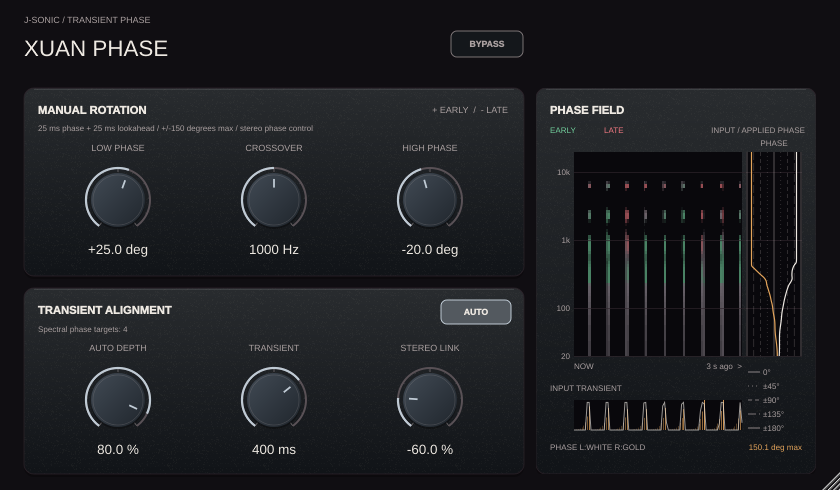
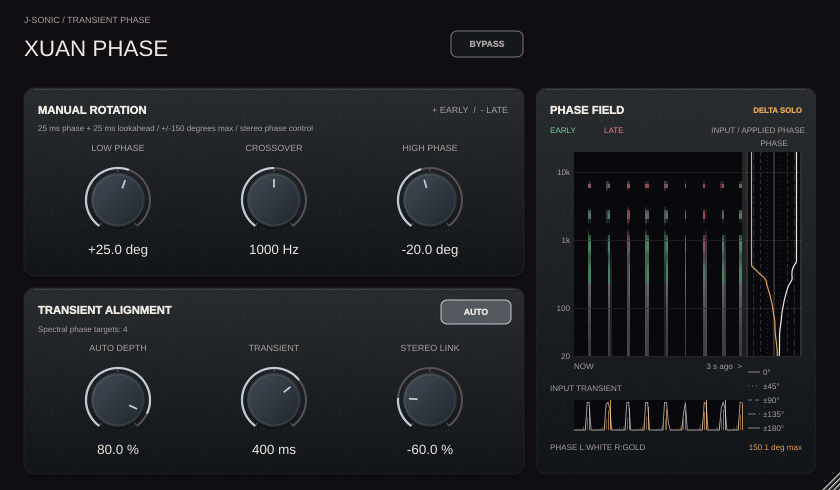
Add click-to-audition phase delta to Xuan Phase

diff --git a/projects/XuanPhase/Tests/ProcessorTests.cpp b/projects/XuanPhase/Tests/ProcessorTests.cpp
@@ -479,17 +479,39 @@ void phaseDisplayTests()
         check (! seams.next(), "phase wrap crossings split the path instead of drawing across the display");
     }
 }
+void deltaSoloTests()
+{
+    std::vector<float> input (8192, 0.f);
+    input[0] = .8f;
+    for (size_t i = 512; i < 2048; ++i)
+        input[i] += .2f*std::sin (juce::MathConstants<double>::twoPi*700*i/48000);
+    xuan::Settings neutral, rotated, delta;
+    rotated.low = 90; rotated.high = -45;
+    delta = rotated; delta.deltaSolo = true;
+    const auto dry = run (neutral, input);
+    const auto wet = run (rotated, input);
+    const auto audition = run (delta, input);
+    double maximumError = 0, deltaEnergy = 0;
+    for (size_t i = 0; i < input.size(); ++i)
+    {
+        maximumError = std::max (maximumError, std::abs (double (audition[i])-(double (wet[i])-dry[i])));
+        deltaEnergy += double (audition[i])*audition[i];
+    }
+    check (maximumError < 2e-6 && deltaEnergy > .01,
+           "Delta Solo auditions processed minus latency-aligned dry audio on the same phase path");
+}
 void dspTests (const juce::File& directory)
 {
     directory.createDirectory();
+    deltaSoloTests();
     phaseDisplayTests();
     phaseCapTests (directory);
     XuanPhaseProcessor saved, restored;
     set (saved, "link", -70);
-    set (saved, "depth", -75); set (saved, "transient", 700);
+    set (saved, "depth", -75); set (saved, "transient", 700); set (saved, "deltaSolo", 1);
     juce::MemoryBlock state; saved.getStateInformation (state); restored.setStateInformation (state.getData(), static_cast<int> (state.getSize()));
-    check (std::abs (restored.settings().depth+75) < .001f && std::abs (restored.settings().transient-700) < .001f && std::abs (restored.settings().link+70) < .001f,
-           "negative Depth and Transient release survive session recall");
+    check (std::abs (restored.settings().depth+75) < .001f && std::abs (restored.settings().transient-700) < .001f && std::abs (restored.settings().link+70) < .001f
+           && restored.settings().deltaSolo, "negative Depth, Transient release, and Delta Solo survive session recall");
     set (saved, "depth", 50);
     auto oldOutput = saved.parameters.copyState();
     for (int i = oldOutput.getNumChildren()-1; i >= 0; --i)
@@ -501,11 +523,11 @@ void dspTests (const juce::File& directory)
            "older Output states migrate to shared Stereo Link without treating gain as a link value");
     auto oldState = saved.parameters.copyState();
     for (int i = oldState.getNumChildren()-1; i >= 0; --i)
-        if (oldState.getChild (i).getProperty ("id").toString() == "transient") oldState.removeChild (i, nullptr);
+        if (const auto id = oldState.getChild (i).getProperty ("id").toString(); id == "transient" || id == "deltaSolo") oldState.removeChild (i, nullptr);
     XuanPhaseProcessor legacy;
     legacy.parameters.replaceState (oldState);
-    check (std::abs (legacy.settings().depth-50) < .001f && std::abs (legacy.settings().transient-200) < .001f,
-           "sessions predating Transient retain their stored positive Depth and the new default release");
+    check (std::abs (legacy.settings().depth-50) < .001f && std::abs (legacy.settings().transient-200) < .001f
+           && ! legacy.settings().deltaSolo, "older sessions retain Depth and default to normal audition output");
     std::ofstream phase ((directory.getChildFile ("phase.csv")).getFullPathName().toStdString());
     phase << "setting,frequency,phase_deg,gain_db\n";
     for (double rate : {8000., 44100., 48000., 96000., 192000.})
@@ -762,7 +784,7 @@ void dspTests (const juce::File& directory)
     }
     check (remaining[0] < 1 && remaining[2] > remaining[1]+1,
            "the live worker releases short Transient settings faster than long settings");
-    XuanPhaseProcessor bypassed; set (bypassed, "low", 90); set (bypassed, "link", -100); bypassed.prepareToPlay (48000, 128);
+    XuanPhaseProcessor bypassed; set (bypassed, "low", 90); set (bypassed, "link", -100); set (bypassed, "deltaSolo", 1); bypassed.prepareToPlay (48000, 128);
     double bypassError = 0;
     for (int at = 0; at < 4096; at += 128)
     {
@@ -771,7 +793,7 @@ void dspTests (const juce::File& directory)
         for (int i = 0; i < 128; ++i)
             bypassError = std::max (bypassError, std::abs (static_cast<double> (block.getSample (0, i))-(at+i == 2400 ? 1 : 0)));
     }
-    check (bypassError < 1e-6, "host bypass ignores nonzero rotation and negative Stereo Link while retaining exactly 50 ms latency");
+    check (bypassError < 1e-6, "host bypass ignores rotation, negative Stereo Link, and Delta Solo while retaining exactly 50 ms latency");
 }
 void hostedEditorTests()
 {
@@ -912,6 +934,21 @@ void editor (const juce::File& path)
     set (p, "low", 0);
     check (meter != nullptr && meter->getX() >= 524 && meter->getHeight() > meter->getWidth(), "vertical phase meter sits beside the original controls");
     check (meter->getTooltip().isNotEmpty(), "phase meter has a hover hint explaining colours and scroll direction");
+    const auto clickField = [&] (juce::Point<float> point)
+    {
+        const auto now = juce::Time::getCurrentTime();
+        meter->mouseDown (juce::MouseEvent (
+            juce::Desktop::getInstance().getMainMouseSource(), point,
+            juce::ModifierKeys (juce::ModifierKeys::leftButtonModifier),
+            0.0f, 0.0f, 0.0f, 0.0f, 0.0f, meter, meter,
+            now, point, now, 1, false));
+    };
+    clickField ({100.f, 110.f});
+    check (p.settings().deltaSolo, "clicking the phase field enables the host-automatable Delta Solo parameter");
+    clickField ({230.f, 110.f});
+    check (! p.settings().deltaSolo, "clicking the phase trace again restores the full output");
+    clickField ({12.f, 12.f});
+    check (! p.settings().deltaSolo, "clicking outside the phase view does not toggle Delta Solo");
     const auto green = XuanPhaseMeter::timingColour (-1, 1), red = XuanPhaseMeter::timingColour (1, 1);
     check (green.getGreen() > green.getRed() && red.getRed() > red.getGreen(), "early bands use green and late bands use red");
     p.prepareToPlay (48000, 128); p.setMeterVisible (true);
@@ -957,9 +994,11 @@ void editor (const juce::File& path)
     }
     check (onsetSeen && earlySeen && lateSeen, "live transient spectra contain both early and lagging timing indications");
     check (meter->historySize() > 30 && movedRight, "new spectra enter on the left and existing columns move right");
+    set (p, "deltaSolo", 1);
     auto image = e->createComponentSnapshot (e->getLocalBounds()); juce::MemoryOutputStream png;
     path.getParentDirectory().createDirectory();
     check (juce::PNGImageFormat().writeImageToStream (image, png) && path.replaceWithData (png.getData(), png.getDataSize()), "native phase editor preview is saved");
+    set (p, "deltaSolo", 0);
     set (p, "automatic", 0); bool manualSpectrum = false;
     for (int at = 0; at < 12032; at += 128)
     {
@@ -1017,7 +1056,7 @@ int main (int argc, char** argv)
             const juce::File directory (argv[2]); directory.createDirectory();
             onsetAccuracyTests (directory); std::cout << checks << " onset accuracy checks passed\n"; return 0;
         }
-        stateTests<XuanPhaseProcessor> (8);
+        stateTests<XuanPhaseProcessor> (9);
         dspTests (argc > 2 && juce::String (argv[1]) == "--report" ? juce::File (argv[2]) : juce::File ("/tmp/xuan-report"));
         if (argc > 2 && juce::String (argv[1]) == "--editor") editor (juce::File (argv[2]));
         std::cout << checks << " Xuan Phase checks passed\n"; return 0;

diff --git a/projects/XuanPhase/Source/PhaseMeter.cpp b/projects/XuanPhase/Source/PhaseMeter.cpp
@@ -6,10 +6,25 @@ const auto early = juce::Colour (0xff72ce9c), late = juce::Colour (0xfff07880);
 }
 XuanPhaseMeter::XuanPhaseMeter (XuanPhaseProcessor& p) : processor (p)
 {
-    setTooltip ("Shows three seconds of input transients moving left to right, with early bands green, late bands red, and applied left phase in white and right phase in gold on a plus or minus 180 degree scale with correction targets capped at plus or minus 150 degrees.");
+    setTooltip ("Click the phase field to audition only the phase-rotated difference from the delayed input.");
+    setMouseCursor (juce::MouseCursor::PointingHandCursor);
     lastColumn = lastInput = juce::Time::getMillisecondCounterHiRes();
 }
 XuanPhaseMeter::~XuanPhaseMeter() { stopTimer(); processor.setMeterVisible (false); }
+void XuanPhaseMeter::toggleDeltaSolo()
+{
+    if (auto* parameter = processor.parameters.getParameter ("deltaSolo"))
+    {
+        parameter->beginChangeGesture();
+        parameter->setValueNotifyingHost (parameter->getValue() >= .5f ? 0.f : 1.f);
+        parameter->endChangeGesture();
+        repaint();
+    }
+}
+void XuanPhaseMeter::mouseDown (const juce::MouseEvent& event)
+{
+    if (juce::Rectangle<int> (38, 64, 228, 204).contains (event.getPosition())) toggleDeltaSolo();
+}
 void XuanPhaseMeter::visibilityChanged() { setActive (isShowing()); }
 void XuanPhaseMeter::setActive (bool active)
 {
@@ -132,7 +147,10 @@ void XuanPhaseMeter::paint (juce::Graphics& g)
 {
     drawPanel (g, getLocalBounds().toFloat(), juce::Colour (0xff14171b));
     g.setColour (foreground); g.setFont (juce::FontOptions (13).withStyle ("bold"));
-    g.drawText ("PHASE FIELD", 14, 12, 250, 20, juce::Justification::centredLeft);
+    g.drawText ("PHASE FIELD", 14, 12, 155, 20, juce::Justification::centredLeft);
+    const auto deltaSolo = processor.parameters.getRawParameterValue ("deltaSolo")->load() >= .5f;
+    g.setColour (deltaSolo ? amber : secondary); g.setFont (juce::FontOptions (9).withStyle (deltaSolo ? "bold" : "plain"));
+    g.drawText (deltaSolo ? "DELTA SOLO" : "CLICK FOR DELTA", 162, 14, 104, 17, juce::Justification::centredRight);
     g.setFont (juce::FontOptions (9));
     g.setColour (early); g.drawText ("EARLY", 14, 34, 50, 16, juce::Justification::centredLeft);
     g.setColour (late); g.drawText ("LATE", 68, 34, 50, 16, juce::Justification::centredLeft);

diff --git a/projects/XuanPhase/Source/PhaseEngine.cpp b/projects/XuanPhase/Source/PhaseEngine.cpp
@@ -455,6 +455,7 @@ void PhaseEngine::prepare (double rate, std::function<Settings()> provider, bool
     for (int ch = 0; ch < 2; ++ch) { slots[0].kernels[static_cast<size_t> (ch)].build (ir, partitions); prepareMeter (slots[0], ir, ch); }
     slots[0].state.store (3);
     bypassBlend.reset (rate, .005); bypassBlend.setCurrentAndTargetValue (s.bypass ? 1.f : 0.f);
+    deltaSoloBlend.reset (rate, .005); deltaSoloBlend.setCurrentAndTargetValue (s.deltaSolo ? 1.f : 0.f);
     meterBypass = s.bypass ? 1.f : 0.f; publishRotation();
     if (worker) startThread (juce::Thread::Priority::normal);
 }
@@ -571,6 +572,7 @@ void PhaseEngine::process (juce::AudioBuffer<float>& buffer, const Settings& s, 
     autoActive.store (s.automatic && ! juce::exactlyEqual (s.depth, 0.f), std::memory_order_relaxed);
     channelCount = channels;
     bypassBlend.setTargetValue (s.bypass || hostBypass ? 1.f : 0.f);
+    deltaSoloBlend.setTargetValue (s.deltaSolo ? 1.f : 0.f);
     for (int i = 0; i < buffer.getNumSamples(); ++i)
     {
         std::array<float, 2> in {}, out {}, bypassed {};
@@ -600,11 +602,13 @@ void PhaseEngine::process (juce::AudioBuffer<float>& buffer, const Settings& s, 
         rightAnalysisRing[static_cast<size_t> (ringPosition)] = channels == 1 ? in[0] : in[1];
         ringPosition = (ringPosition+1)%static_cast<int> (analysisRing.size());
         const auto bypass = bypassBlend.getNextValue();
+        const auto deltaSolo = deltaSoloBlend.getNextValue();
         meterBypass = hostBypass ? 1.f : bypass;
         for (int ch = 0; ch < channels; ++ch)
         {
             const auto c = static_cast<size_t> (ch); const auto wet = out[c];
-            buffer.setSample (ch, i, hostBypass || bypass >= 1 ? bypassed[c] : wet+bypass*(bypassed[c]-wet));
+            const auto audition = wet-deltaSolo*bypassed[c];
+            buffer.setSample (ch, i, hostBypass || bypass >= 1 ? bypassed[c] : audition+bypass*(bypassed[c]-audition));
         }
         if (pending >= 0 && ++fadePosition >= fadeLength)
         {

diff --git a/projects/XuanPhase/Source/PluginProcessor.cpp b/projects/XuanPhase/Source/PluginProcessor.cpp
@@ -1,6 +1,6 @@
 #include "PluginProcessor.h"
 #include "PluginEditor.h"
-namespace { constexpr std::array<const char*, 8> ids { "low", "high", "split", "depth", "link", "automatic", "bypass", "transient" }; }
+namespace { constexpr std::array<const char*, 9> ids { "low", "high", "split", "depth", "link", "automatic", "bypass", "transient", "deltaSolo" }; }
 juce::AudioProcessorValueTreeState::ParameterLayout XuanPhaseProcessor::createParameterLayout()
 {
     juce::AudioProcessorValueTreeState::ParameterLayout layout;
@@ -20,6 +20,7 @@ juce::AudioProcessorValueTreeState::ParameterLayout XuanPhaseProcessor::createPa
     layout.add (std::make_unique<juce::AudioParameterBool> (juce::ParameterID { "automatic", 1 }, "Auto phase", false));
     layout.add (std::make_unique<juce::AudioParameterBool> (juce::ParameterID { "bypass", 1 }, "Bypass", false));
     add ("transient", "Transient release", 20, 1000, 1, 200, "ms");
+    layout.add (std::make_unique<juce::AudioParameterBool> (juce::ParameterID { "deltaSolo", 1 }, "Delta solo", false));
     return layout;
 }
 XuanPhaseProcessor::XuanPhaseProcessor()
@@ -37,7 +38,7 @@ XuanPhaseProcessor::~XuanPhaseProcessor()
 xuan::Settings XuanPhaseProcessor::settings() const noexcept
 {
     const auto value = [&] (size_t i) { return raw[i]->load (std::memory_order_relaxed); };
-    return { value (0), value (1), value (2), value (3), value (4), value (5) >= .5f, value (6) >= .5f, value (7) };
+    return { value (0), value (1), value (2), value (3), value (4), value (5) >= .5f, value (6) >= .5f, value (7), value (8) >= .5f };
 }
 void XuanPhaseProcessor::prepareToPlay (double rate, int)
 {

diff --git a/projects/XuanPhase/Source/PhaseEngine.h b/projects/XuanPhase/Source/PhaseEngine.h
@@ -12,6 +12,7 @@ struct Settings
     float low = 0, high = 0, split = 1000, depth = 50, link = 100;
     bool automatic = false, bypass = false;
     float transient = 200;
+    bool deltaSolo = false;
     bool operator== (const Settings& b) const noexcept
     { return juce::exactlyEqual (low, b.low) && juce::exactlyEqual (high, b.high)
           && juce::exactlyEqual (split, b.split) && juce::exactlyEqual (depth, b.depth) && juce::exactlyEqual (link, b.link) && automatic == b.automatic
@@ -144,6 +145,6 @@ private:
     double sampleRate = 48000;
     int delay = 1200, lookahead = 1200, aheadPosition = 0, partitions = 18, spectrumPosition = -1, position = 0, dryPosition = 0, ringPosition = 0;
     int active = 0, pending = -1, fadePosition = 0, fadeLength = 240;
-    juce::SmoothedValue<float> bypassBlend;
+    juce::SmoothedValue<float> bypassBlend, deltaSoloBlend;
 };
 }

diff --git a/projects/XuanPhase/Source/PhaseMeter.h b/projects/XuanPhase/Source/PhaseMeter.h
@@ -13,6 +13,7 @@ public:
     explicit XuanPhaseMeter (XuanPhaseProcessor&);
     ~XuanPhaseMeter() override;
     void paint (juce::Graphics&) override;
+    void mouseDown (const juce::MouseEvent&) override;
     void visibilityChanged() override;
     void setActive (bool);
     int historySize() const noexcept { return columnsWritten; }
@@ -25,6 +26,7 @@ private:
     static constexpr int columns = 90;
     void timerCallback() override;
     void append (const xuan::SpectrumFrame&);
+    void toggleDeltaSolo();
     XuanPhaseProcessor& processor;
     juce::Image history { juce::Image::ARGB, columns, xuan::meterBins, true };
     std::array<float, columns> transient {}, peak {};

diff --git a/projects/XuanPhase/Source/PluginProcessor.h b/projects/XuanPhase/Source/PluginProcessor.h
@@ -39,6 +39,6 @@ private:
     static juce::AudioProcessorValueTreeState::ParameterLayout createParameterLayout();
     void parameterChanged (const juce::String&, float) override { engine.changed(); }
     xuan::PhaseEngine engine;
-    std::array<std::atomic<float>*, 8> raw {};
+    std::array<std::atomic<float>*, 9> raw {};
     JUCE_DECLARE_NON_COPYABLE_WITH_LEAK_DETECTOR (XuanPhaseProcessor)
 };

diff --git a/README.md b/README.md
@@ -28,7 +28,7 @@ fallback. See [GPU rendering and validation](projects/GPU_RENDERING.md).
 | [Zao Drive](projects/ZaoDrive/README.md) | `ZaoDrive` | Overdrive | Four circuit models, Smart harmonic shaping, Clear contour, waveform preview, Auto compensation |
 | [Ren Transformer](projects/RenTransformer/README.md) | `RenTransformer` | Transformer coloration | Yinyang's transformer stage with adjustable Response in a compact five-knob interface |
 | [Kuo Velvet](projects/KuoVelvet/README.md) | `KuoVelvet` | Convolution widening | Kuo's Velvet stage with Width, Transient, Attack, and Output controls |
-| [Xuan Phase](projects/XuanPhase/README.md) | `XuanPhase` | Phase rotation | Independent low/high rotation, 25 ms lookahead, spectral transient alignment and Auto Depth |
+| [Xuan Phase](projects/XuanPhase/README.md) | `XuanPhase` | Phase rotation | Independent low/high rotation, 25 ms lookahead, spectral transient alignment, and click-to-audition delta |
 | [Lan Reverb](projects/LanReverb/README.md) | `LanReverb` | Reverb / delay | Long stereo tails, live feedback-tap scattering, automatic resonance EQ and phase dispersion |
 | [Nian Saturator](projects/NianSaturator/README.md) | `NianSaturator` | Two-band saturation | 4× twelve-band transient enhancement with 5 ms lookahead or dynamically softened tube-style drive, Mix, and crossover spectrum display |
 | [Qin Synth](projects/QinSynth/README.md) | `QinSynth` | MIDI instrument | Sixteen-voice virtual-analog synthesis, three eightfold-unison oscillators, key panning, Zao drive, MIDI-steered Lan delay-reverb |
@@ -151,6 +151,7 @@ independently of the manual settings, and **Transient** sets its release time.
 processing to opposing transient shifts.
 The side spectrogram moves left to right, colouring early bands green and late
 bands red, with white left-channel and gold right-channel traces for applied phase.
+Click the phase field to audition only the difference between processed and delayed dry audio.
 
 [Controls and signal path](projects/XuanPhase/README.md) ·
 [Phase and transient measurements](projects/XuanPhase/Tests/Reports/REPORT.md) ·

diff --git a/projects/XuanPhase/README.md b/projects/XuanPhase/README.md
@@ -5,6 +5,8 @@ independent low/high rotation, a smooth adjustable crossover, signed Auto Depth,
 Transient release, Stereo Link, and **25 ms correction lookahead** in a
 50%–120% scalable editor, with **50 ms total reported latency**.
 The 840 × 490 default panel includes a vertical phase-field meter beside the controls.
+Click its spectrogram or phase trace to toggle **Delta Solo**, which auditions
+the phase-rotated output minus the latency-aligned dry input.
 
 ![Xuan Phase native editor](Previews/xuan-phase.png)
 
@@ -24,6 +26,8 @@ the detector **25 ms lookahead before convolution**, so phase targets can settle
 before the transient enters the filter. The plugin reports
 `round(sampleRate × 0.05)` samples to the host: **2,400 samples at 48 kHz**.
 Neutral, Auto Off, and host/plugin bypass all retain that same 50 ms latency.
+Delta Solo also retains that latency and fades between normal and difference
+output over 5 ms; bypass still returns the delayed dry input.
 Host/plugin bypass keeps the selected phase processing and Auto detector hot,
 so current correction targets are ready when the wet signal returns. Auto Off
 and zero Depth still suspend automatic correction analysis; a visible meter can
@@ -123,6 +127,10 @@ frequency axis. **New data enters at the left and moves right** toward older
 history. Brighter pixels mean more input energy; **green** marks frequency bands
 arriving before the detected transient anchor, and **red** marks those arriving
 after it. Colours describe observed input timing, so they also work with Auto Off.
+Click the spectrogram or phase trace to audition only the processing difference;
+click again to restore the normal output. The **DELTA SOLO** label lights up
+while this saved, automatable audition mode is active. A neutral phase response
+has almost no delta signal.
 Timing colors interpolate between adjacent detected bands; spectral energy
 remains unchanged, so genuine gaps in the input still appear dark.
 A small display hold makes short onsets visible without changing the audio detector.

diff --git a/projects/XuanPhase/TOOLTIPS.md b/projects/XuanPhase/TOOLTIPS.md
@@ -11,4 +11,4 @@
 | Transient | Sets how quickly automatic phase correction releases after a transient, with longer times retaining it longer. |
 | Stereo Link | Links automatic correction at +100%, processes channels independently at 0%, and separates their transients toward -100%. |
 | Bypass | Bypasses phase processing while preserving the fixed 50 ms latency. |
-| Phase Field | Shows three seconds of input transients moving left to right, with early bands green, late bands red, and applied left phase in white and right phase in gold on a plus or minus 180 degree scale with correction targets capped at plus or minus 150 degrees. |
+| Phase Field | Click the phase field to audition only the phase-rotated difference from the delayed input. |
